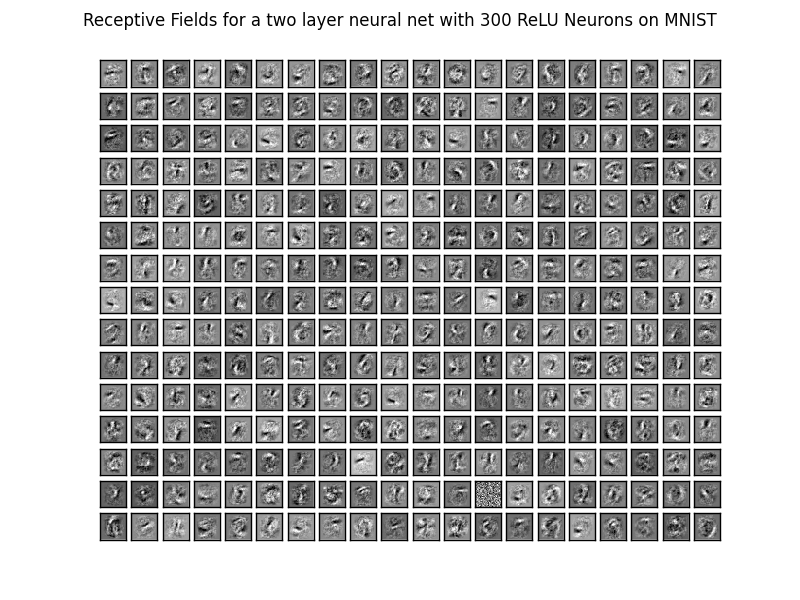
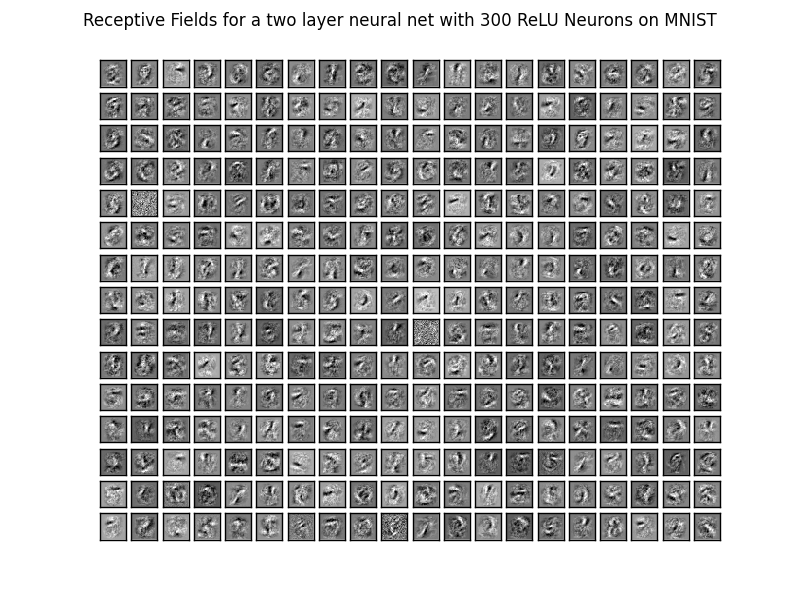
feat(nn): various plots of nn
Stores plots for tanh, sigmoid, and relu

Changed region(s): [[0.125, 0.09, 0.9062, 0.9]]

diff --git a/nn/neural_net.py b/nn/neural_net.py
@@ -426,34 +426,34 @@ def test_mlp(learning_rate = 0.01, L1_reg = 0.00, L2_reg = 0.0001, n_epochs = 10
     return classifier, losses, methadata
 
 if __name__ == "__main__":
+    # f = plt.figure()
+    # classifier, losses, methadata = test_mlp(activation = T.tanh, optimizer = 'rmsprop')
+    # train_loss, valid_loss, test_loss = losses
+    # best_validation_loss, best_test_loss, time_trained = methadata
+
+    # # plt.plot(gd_train_loss, '-', linewidth = 1, label = 'train loss')
+    # plt.plot(valid_loss[:,0], valid_loss[:,1], '-', linewidth = 1, label = 'validation loss')
+    # plt.plot(test_loss[:,0], test_loss[:,1], '-', linewidth = 1, label = 'test loss')
+
+    # plt.legend()
+
+    # plt.title('Error activation tanh with best validation score of %f %%,\n test performance %f %%, after %.1fm ' % (best_validation_loss, best_test_loss, time_trained))
+    # plt.savefig('errors_tanh.png')
+
+    # f_repfields, axes  = plt.subplots(15, 20, subplot_kw = {'xticks': [], 'yticks': []})
+    # repfield = []
+
+    # for i in range(300):
+        # repfield.append(np.reshape(np.array(classifier.hiddenLayer.W.get_value())[:,i], (28, 28)))
+
+    # for ax, rep in zip(axes.flat, repfield):
+        # ax.imshow(rep, cmap=plt.cm.gray, interpolation = 'none')
+
+    # f_repfields.suptitle('Receptive Fields for a two layer neural net with 300 tanh neurons on MNIST')
+    # plt.savefig('repfields_tanh.png')
+
     f = plt.figure()
-    classifier, losses, methadata = test_mlp(activation = T.tanh, optimizer = 'rmsprop')
-    train_loss, valid_loss, test_loss = losses
-    best_validation_loss, best_test_loss, time_trained = methadata
-
-    # plt.plot(gd_train_loss, '-', linewidth = 1, label = 'train loss')
-    plt.plot(valid_loss[:,0], valid_loss[:,1], '-', linewidth = 1, label = 'validation loss')
-    plt.plot(test_loss[:,0], test_loss[:,1], '-', linewidth = 1, label = 'test loss')
-
-    plt.legend()
-
-    plt.title('Error activation tanh with best validation score of %f %%,\n test performance %f %%, after %.1fm ' % (best_validation_loss, best_test_loss, time_trained))
-    plt.savefig('errors_tanh.png')
-
-    f_repfields, axes  = plt.subplots(15, 20, subplot_kw = {'xticks': [], 'yticks': []})
-    repfield = []
-
-    for i in range(300):
-        repfield.append(np.reshape(np.array(classifier.hiddenLayer.W.get_value())[:,i], (28, 28)))
-
-    for ax, rep in zip(axes.flat, repfield):
-        ax.imshow(rep, cmap=plt.cm.gray, interpolation = 'none')
-
-    f_repfields.suptitle('Receptive Fields for a two layer neural net with 300 tanh neurons on MNIST')
-    plt.savefig('repfields_tanh.png')
-
-    f = plt.figure()
-    classifier, losses, methadata = test_mlp(activation = T.nnet.sigmoid, optimizer = 'rmsprop')
+    classifier, losses, methadata = test_mlp(activation = T.nnet.sigmoid, optimizer = 'gd')
     train_loss, valid_loss, test_loss = losses
     best_validation_loss, best_test_loss, time_trained = methadata
 
@@ -479,7 +479,7 @@ if __name__ == "__main__":
     plt.savefig('repfields_sigmoid.png')
 
     f = plt.figure()
-    classifier, losses, methadata = test_mlp(activation = T.nnet.relu, optimizer = 'rmsprop')
+    classifier, losses, methadata = test_mlp(activation = T.nnet.relu, optimizer = 'gd')
     train_loss, valid_loss, test_loss = losses
     best_validation_loss, best_test_loss, time_trained = methadata
 

diff --git a/data/data.py b/data/data.py
@@ -63,7 +63,6 @@ def load_cifar(dataset, shared = False):
             batch_4 = pickle.load(f.extractfile(f.getmember('cifar-10-batches-py/data_batch_4')))
             batch_5 = pickle.load(f.extractfile(f.getmember('cifar-10-batches-py/data_batch_5')))
             batch_test = pickle.load(f.extractfile(f.getmember('cifar-10-batches-py/data_batch_5')))
-            print(batch_1['data'][:,:1024].shape)
             train_set = [batch_1['data'][:,:1024] + batch_2['data'][:,:1024] + batch_3['data'][:,:1024], batch_1['labels'] + batch_2['labels'] + batch_3['labels']]
             valid_set = [batch_4['data'][:,:1024] + batch_5['data'][:,:1024], batch_4['labels'] + batch_5['labels']]
             test_set = [batch_test['data'][:,:1024], batch_test['labels']] 
